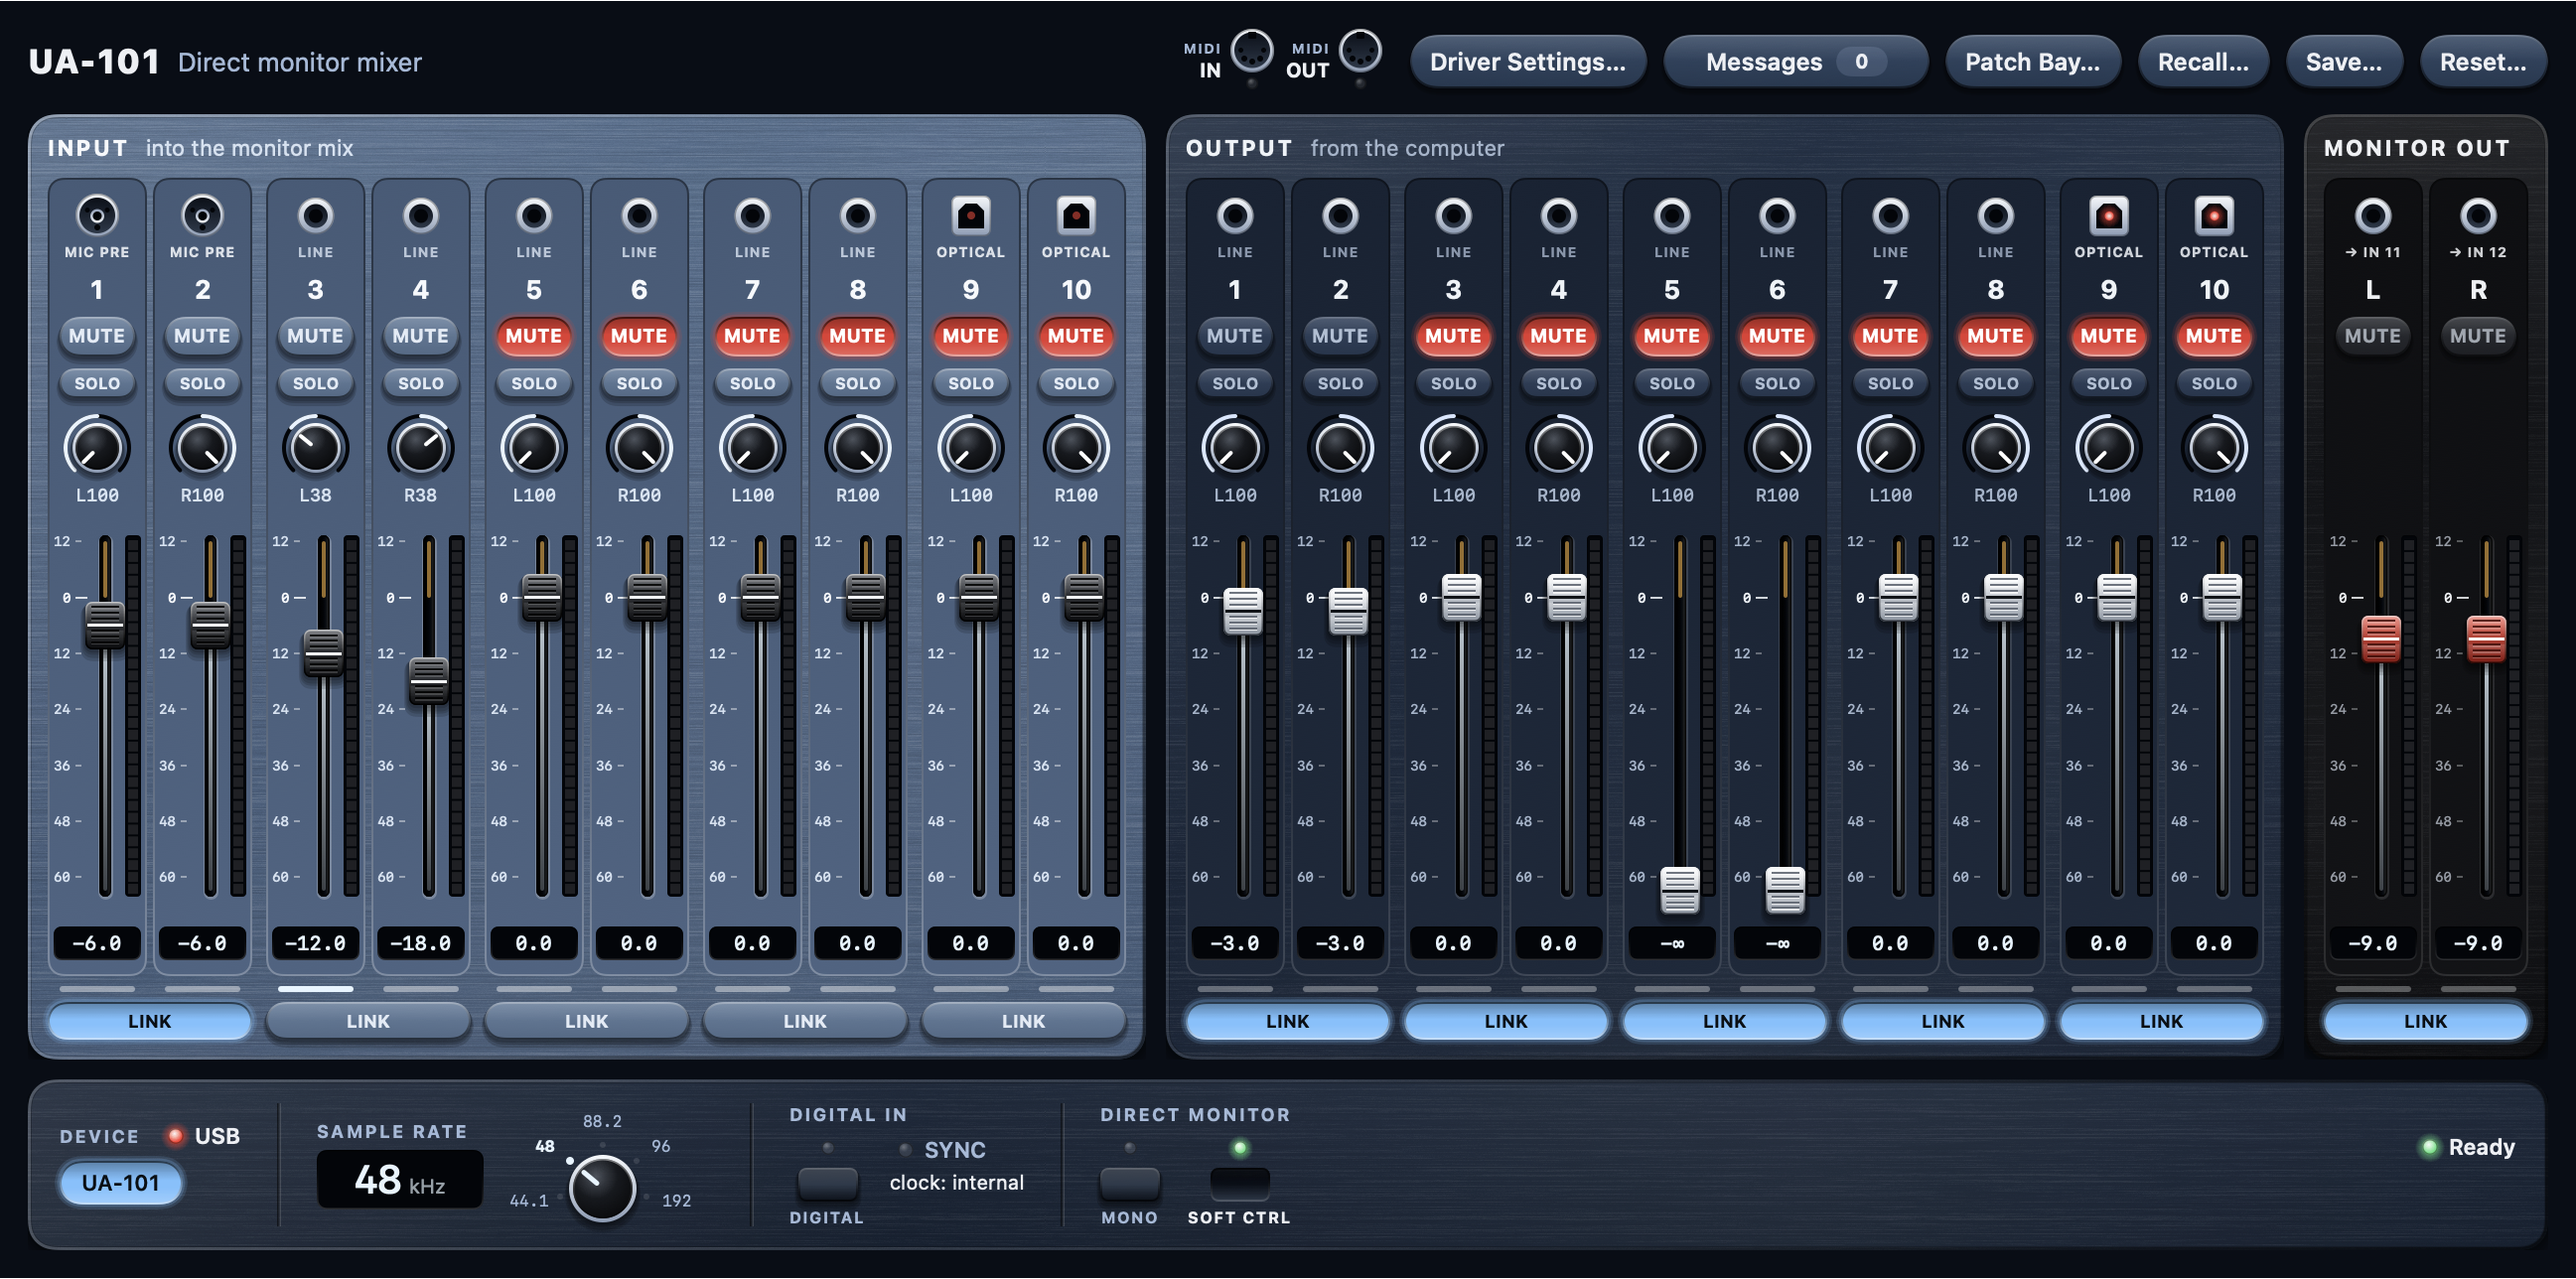
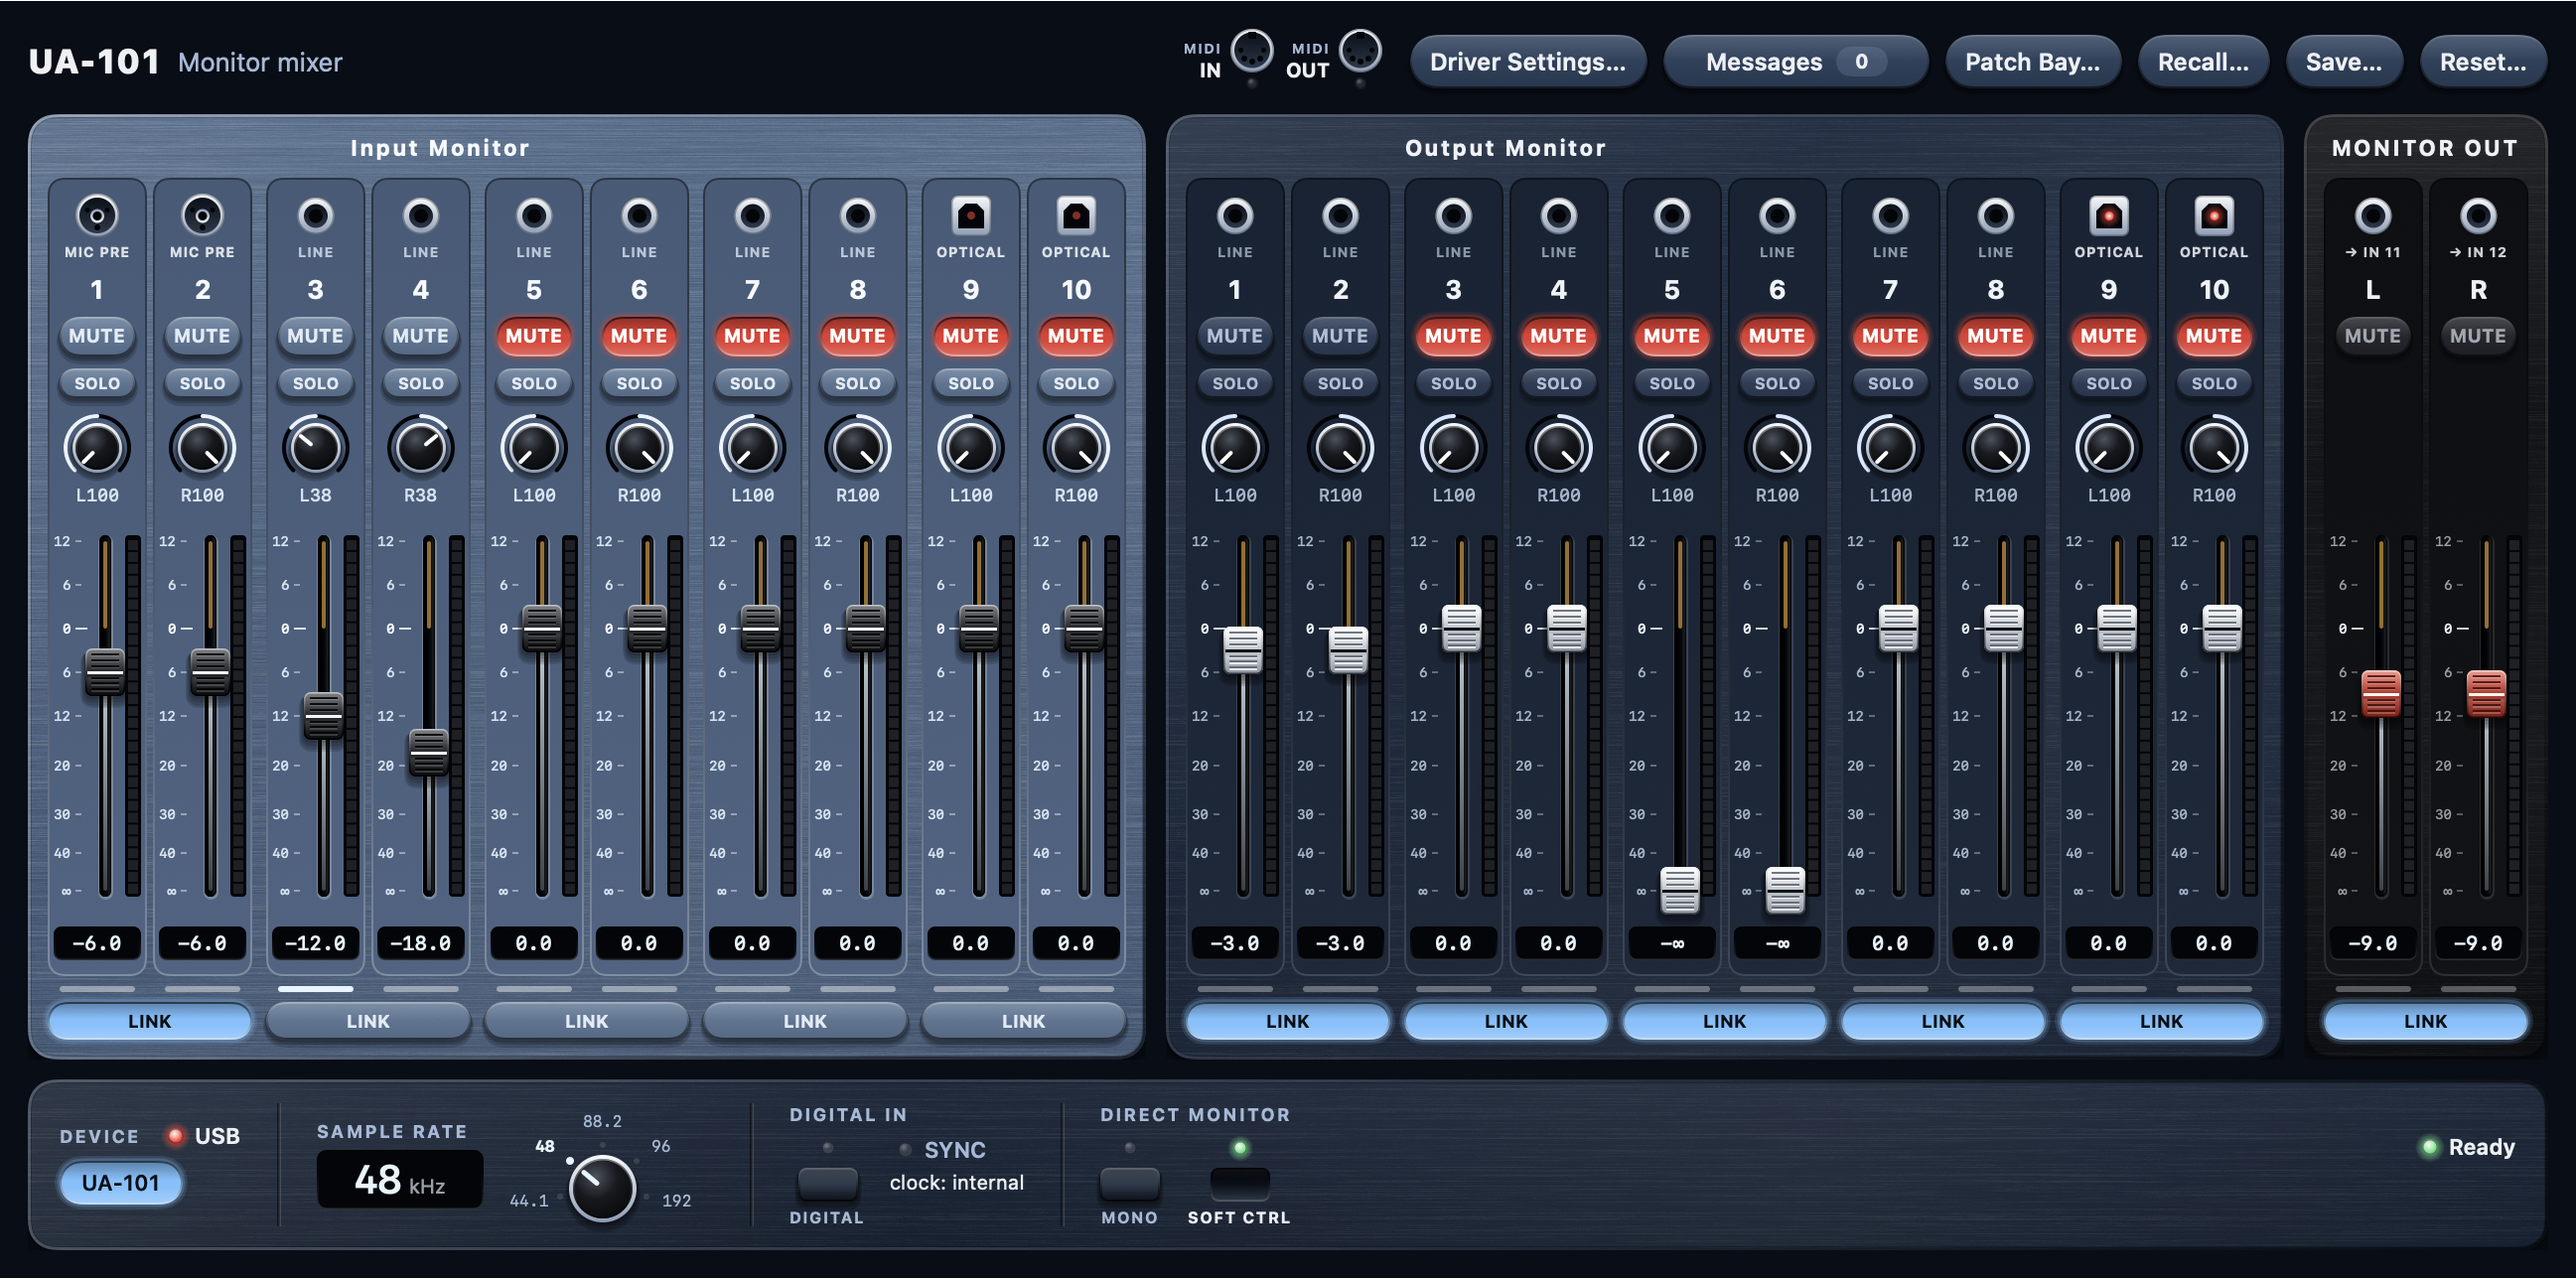
Mixer titles and a desk-style fader scale
- Section titles in the middle of each section: "Input Monitor",
  "Output Monitor" (MONITOR OUT centred the same way); the window line
  says "UA-101  Monitor mixer".
- The fader scale as on a mixing desk: 12, 6, 0, 6, 12, 20, 30, 40, ∞.
  From −12 dB up every 6 dB is the same length and 0 dB is a quarter
  down; below −12 dB the steps close up. The fader moves along the same
  bent line, so the marks tell the truth (around 0 dB one point of
  travel is now 0.27 dB, was 0.43).
- README: "mute" in place of the old "on".
- Manual page and pictures redrawn.

diff --git a/app/ChannelNames.swift b/app/ChannelNames.swift
@@ -16,6 +16,8 @@ enum ChannelNames {
     static let groupTitle = ["MONITOR OUT", "INPUT", "OUTPUT"]
     /// A line under the group's title.
     static let groupNote = ["what you hear", "into the monitor mix", "from the computer"]
+    /// The name on top of each section of the mixer, in its middle (the user's words, 2026-11-27).
+    static let sectionTitle = ["MONITOR OUT", "Input Monitor", "Output Monitor"]
 
     /// The short label on a strip.
     static let short: [[String]] = [
@@ -170,10 +172,18 @@ enum Format {
     }
 }
 
-/// The fader's scale: the bottom is off, then −60 dB to +12 dB in equal steps.
+/// The fader's scale, as on a mixing desk (the user's picture, 2026-11-27): the bottom is off,
+/// then −60 dB to +12 dB along a bent line. From −12 dB up every 6 dB is the same length, and
+/// 0 dB sits a quarter of the way down; below −12 dB the steps get closer, so the fine part
+/// is where the music is. Between two points of the table the line is straight.
 enum FaderScale {
     static let bottomDB = -60.0, topDB = 12.0
     static let offZone = 0.04
+    /// (dB, position from 0 at the bottom to 1 at the top), from the bottom up.
+    static let points: [(dB: Double, pos: Double)] = [
+        (-60, offZone), (-40, 0.11), (-30, 0.22), (-20, 0.36), (-12, 0.5),
+        (-6, 0.625), (0, 0.75), (6, 0.875), (12, 1),
+    ]
 
     static func position(volume: UInt32) -> Double {
         if volume == 0 { return 0 }
@@ -182,14 +192,27 @@ enum FaderScale {
     }
 
     static func position(dB d: Double) -> Double {
-        let p = offZone + (1 - offZone) * (d - bottomDB) / (topDB - bottomDB)
-        return min(1, max(offZone, p))
+        if d <= bottomDB { return offZone }
+        if d >= topDB { return 1 }
+        let i = points.lastIndex(where: { $0.dB <= d })!
+        let a = points[i], b = points[i + 1]
+        return a.pos + (b.pos - a.pos) * (d - a.dB) / (b.dB - a.dB)
     }
 
     static func volume(position p: Double) -> UInt32 {
         if p < offZone { return 0 }
-        let d = bottomDB + (min(1, p) - offZone) / (1 - offZone) * (topDB - bottomDB)
-        return volume(dB: d)
+        let q = min(1, p)
+        let i = points.lastIndex(where: { $0.pos <= q })!
+        if i == points.count - 1 { return volume(dB: topDB) }
+        let a = points[i], b = points[i + 1]
+        return volume(dB: a.dB + (b.dB - a.dB) * (q - a.pos) / (b.pos - a.pos))
+    }
+
+    /// How many dB one point of fader travel is at a level: the line's slope there.
+    static func dBPerPoint(at d: Double, travel: Double) -> Double {
+        let i = min(points.count - 2, points.lastIndex(where: { $0.dB <= d }) ?? 0)
+        let a = points[i], b = points[i + 1]
+        return (b.dB - a.dB) / ((b.pos - a.pos) * travel)
     }
 
     static func volume(dB d: Double) -> UInt32 {

diff --git a/app/MixerViews.swift b/app/MixerViews.swift
@@ -366,7 +366,7 @@ struct Fader: View {
     private static let slotWidth: CGFloat = 6
     private static let slotCentre: CGFloat = 29 // from the strip's left edge; the scale is left of it, the meter right
     private static let marks: [(dB: Double, label: String)] = [
-        (12, "12"), (0, "0"), (-12, "12"), (-24, "24"), (-36, "36"), (-48, "48"), (-60, "60"),
+        (12, "12"), (6, "6"), (0, "0"), (-6, "6"), (-12, "12"), (-20, "20"), (-30, "30"), (-40, "40"),
     ]
 
     var body: some View {
@@ -388,6 +388,12 @@ struct Fader: View {
                 }
                 .offset(x: 1, y: y - 4.5)
             }
+            // Off, at the very bottom.
+            HStack(spacing: 2) {
+                Text("∞").font(.readout(8)).foregroundColor(sec.dim).frame(width: 11, alignment: .trailing)
+                Rectangle().fill(sec.tick).frame(width: 3, height: 1)
+            }
+            .offset(x: 1, y: travel + half - 5)
             Group {
                 // The slot, cut into the panel: a lit lip around it, dark inside, deepest at
                 // its left wall.
@@ -648,12 +654,9 @@ struct GroupView: View {
         let pairs = model.snap.channels[group].count / 2
         let sec = theme.section(group)
         VStack(alignment: .leading, spacing: 8) {
-            HStack(alignment: .firstTextBaseline, spacing: 8) {
-                Text(ChannelNames.groupTitle[group]).font(.panel(11, .bold)).tracking(1.2).foregroundColor(sec.text).copyable()
-                if pairs > 1 {
-                    Text(ChannelNames.groupNote[group]).font(.panel(11)).foregroundColor(sec.dim).copyable()
-                }
-            }
+            Text(ChannelNames.sectionTitle[group]).font(.panel(11, .bold)).tracking(1.2).foregroundColor(sec.text)
+                .lineLimit(1).frame(maxWidth: .infinity, alignment: .center).copyable()
+                .help(ChannelNames.groupTitle[group] + ": " + ChannelNames.groupNote[group])
             HStack(spacing: 7) {
                 ForEach(0..<pairs, id: \.self) { p in PairView(model: model, group: group, pair: p) }
             }
@@ -955,7 +958,7 @@ struct MixerWindowView: View {
         VStack(alignment: .leading, spacing: 10) {
             HStack(spacing: 8) {
                 Text("UA-101").font(.panel(17, .heavy)).tracking(1).foregroundColor(theme.text).copyable()
-                Text("Direct monitor mixer").font(.panel(13)).foregroundColor(theme.dim).lineLimit(1).copyable()
+                Text("Monitor mixer").font(.panel(13)).foregroundColor(theme.dim).lineLimit(1).copyable()
                 if byThemselves {
                     // The end-user app: nothing while all is well.
                     if s.state == .ready && !s.writesAllowed {

diff --git a/manual/pages/03-mixer.html b/manual/pages/03-mixer.html
@@ -7,8 +7,8 @@
 
 <h2>The three groups</h2>
 <ul>
-  <li><b>INPUT</b> (into the monitor mix): the sockets of the box. 1 and 2 are the <b>MIC PRE</b> sockets on the front, 3 to 8 the <b>LINE</b> sockets on the back, 9 and 10 the <b>OPTICAL</b> input.</li>
-  <li><b>OUTPUT</b> (from the computer): the sound the Mac plays to the box, channels 1 to 10.</li>
+  <li><b>Input Monitor</b> (INPUT 1 to 10, into the monitor mix): the sockets of the box. 1 and 2 are the <b>MIC PRE</b> sockets on the front, 3 to 8 the <b>LINE</b> sockets on the back, 9 and 10 the <b>OPTICAL</b> input.</li>
+  <li><b>Output Monitor</b> (OUTPUT 1 to 10, from the computer): the sound the Mac plays to the box.</li>
   <li><b>MONITOR OUT</b>: the whole mix, as it goes to MONITOR OUT and PHONES. The mix is also sent to the Mac: a music app can record it as input 11 and 12 (<b>→ IN 11</b>, <b>→ IN 12</b>).</li>
 </ul>
 
@@ -20,7 +20,7 @@
   <tr><td><b>MUTE</b></td><td>Mutes the channel in the mix (lit red) or lets it in (dark).</td><td>Click it.</td></tr>
   <tr><td><b>SOLO</b></td><td>You hear this channel alone, of its group. One INPUT channel and one OUTPUT channel can be soloed at a time.</td><td>Click it. Click a lit SOLO again to put it out.</td></tr>
   <tr><td><b>Pan knob</b></td><td>Left or right. Below it: <b>L100</b> (left), <b>C</b> (middle), <b>R100</b> (right).</td><td>Drag left or right.</td></tr>
-  <tr><td><b>Fader</b></td><td>The volume. The number under it is the volume in dB; <b>−∞</b> is silent. The app goes no higher than <b>0 dB</b>.</td><td>Drag up or down. The fader follows the mouse from where it is, so a click alone never makes it jump.</td></tr>
+  <tr><td><b>Fader</b></td><td>The volume. The marks beside it are dB below (or above) <b>0</b>; <b>∞</b> at the bottom is silent. The number under it is the volume in dB. The app goes no higher than <b>0 dB</b> for now.</td><td>Drag up or down. The fader follows the mouse from where it is, so a click alone never makes it jump.</td></tr>
   <tr><td><b>Meter</b></td><td>The level, beside the fader, while sound passes.</td><td>Only shows.</td></tr>
   <tr><td><b>LINK</b></td><td>Joins a pair (1-2, 3-4 …) as a stereo pair: from the next change on, MUTE and volume move together. Linking alone changes neither channel.</td><td>Click it.</td></tr>
 </table>

diff --git a/app/SelfTest.swift b/app/SelfTest.swift
@@ -2264,8 +2264,8 @@ func runSelfTest(verbose: Bool) -> Int32 {
         t.check(track.value(travel: -1, full: 176, range: 1).map { abs($0 - (0.5 - 1.0 / 176)) < 1e-12 } == true, "a point of travel is a 176th of the fader's way")
         t.check(track.value(travel: 0, full: 176, range: 1) == 0.5, "back where it was pressed, after a move: the start value is asked for again")
         t.check(track.value(travel: 500, full: 176, range: 1) == 1 && track.value(travel: -500, full: 176, range: 1) == 0, "held at the ends")
-        let dBperPoint = (FaderScale.topDB - FaderScale.bottomDB) / ((1 - FaderScale.offZone) * Double(Metrics.faderHeight - FaderCap.height))
-        t.check(abs(dBperPoint - 0.426) < 0.001, "a point of mouse travel on a fader is \(String(format: "%.3f", dBperPoint)) dB: the steps seen on the unit, 2026-11-12")
+        let dBperPoint = FaderScale.dBPerPoint(at: -3, travel: Double(Metrics.faderHeight - FaderCap.height))
+        t.check(abs(dBperPoint - 6.0 / 22) < 0.001, "around 0 dB a point of mouse travel on a fader is \(String(format: "%.3f", dBperPoint)) dB: 6 dB in 22 points (the scale of 2026-11-27)")
 
         // The window, off screen, with real mouse events.
         let app = NSApplication.shared

diff --git a/README.md b/README.md
@@ -11,7 +11,7 @@ A driver and control app for the **Edirol / Roland UA-101** USB audio interface 
 - **Sound in every app.** The UA-101 shows in System Settings → Sound, Logic Pro and every other music app: up to 12 inputs (the monitor mix included) and 10 outputs, at 44.1, 48, 88.2, 96 and 192 kHz (6 each way at 192 kHz). The channels carry the names of the sockets (INPUT 1-8, OPTICAL IN, MONITOR OUT; OUTPUT 1-8, OPTICAL OUT).
 - **MIDI.** A keyboard on the box's MIDI IN and MIDI OUT shows in every MIDI app as **UA-101 MIDI**, and in Audio MIDI Setup with the box's picture.
 - **UA-101 Control**, the control panel:
-  - the direct monitor mixer: on, solo, pan, volume and stereo link for every channel, with meters;
+  - the direct monitor mixer: mute, solo, pan, volume and stereo link for every channel, with meters;
   - the patch bay: what each pair of OUTPUT sockets plays;
   - the box's five memories: recall, save, reset to factory;
   - backups of the settings as files on your Mac, made by themselves before every bigger change;
